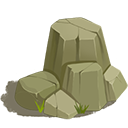
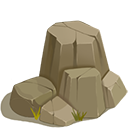
1.加入木桩障碍 2.加入桃子和辣椒（暂无效果） 3.加入冲的功能 4.调整石头的颜色

Changed region(s): [[0.0, 0.125, 1.0, 1.0], [0.4062, 0.4375, 0.4375, 0.4688]]

diff --git a/Assets/TRRunner/Runner.cs b/Assets/TRRunner/Runner.cs
@@ -1,5 +1,5 @@
 using UnityEngine;
-using System.Collections;
+using DG.Tweening;
 namespace TRRunner
 {
     /// <summary>
@@ -64,7 +64,7 @@ namespace TRRunner
         {
             showShadow();
             stateCheck();
-            checkCoolDown();
+            checkJumpCoolDown();
             //if ((Input.GetMouseButtonDown(0) || Input.GetKeyDown(KeyCode.Space)))
             //{
             //    Jump();
@@ -102,7 +102,7 @@ namespace TRRunner
             }
         }
 
-        void checkCoolDown()
+        void checkJumpCoolDown()
         {
             if (coolDownTimer <= CooldownBetweenJumps && coolDownTimer >= 0)
             {
@@ -113,6 +113,16 @@ namespace TRRunner
             {
                 isCoolDown = true;
             }
+        }
+
+        public void Rush()
+        {
+            transform.DOMoveX(-1.25f, 0.5f);
+        }
+
+        void checkRushCoolDown()
+        {
+
         }
 
         void OnCollisionEnter2D(Collision2D collision)
